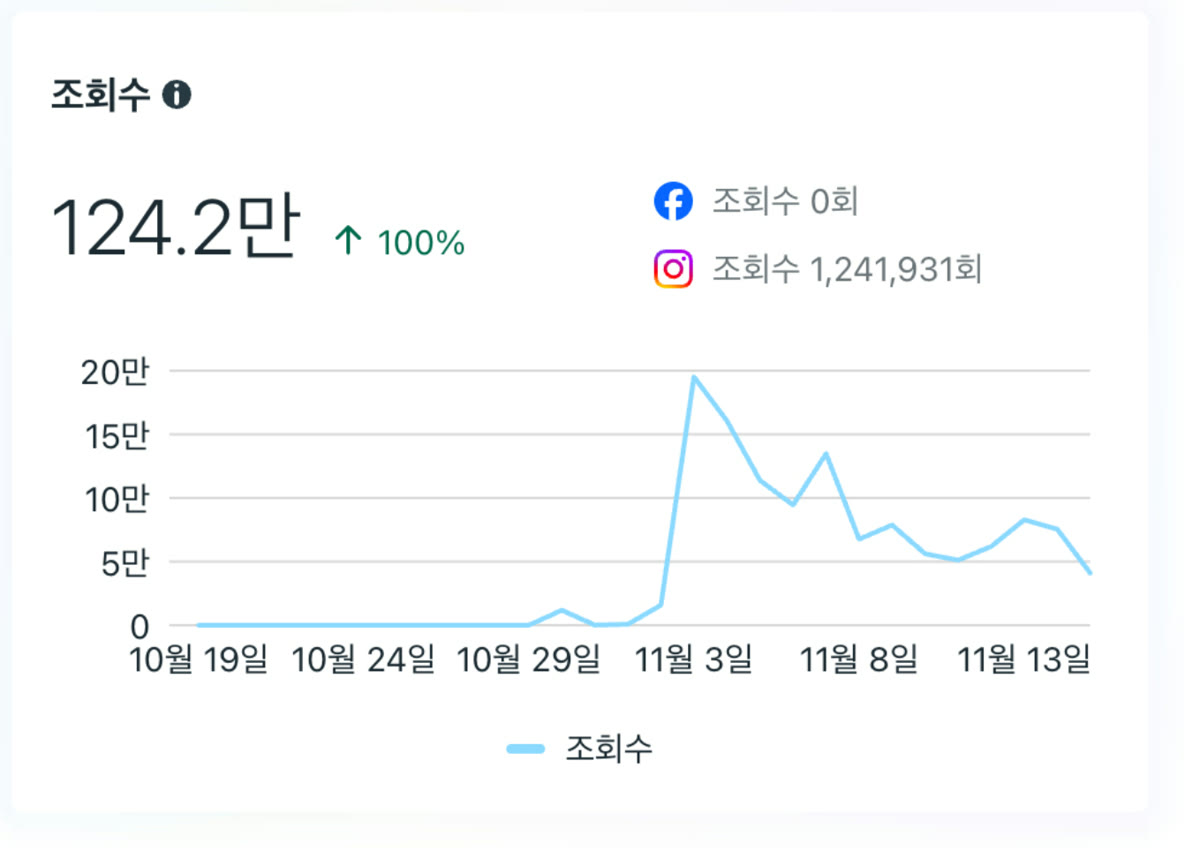
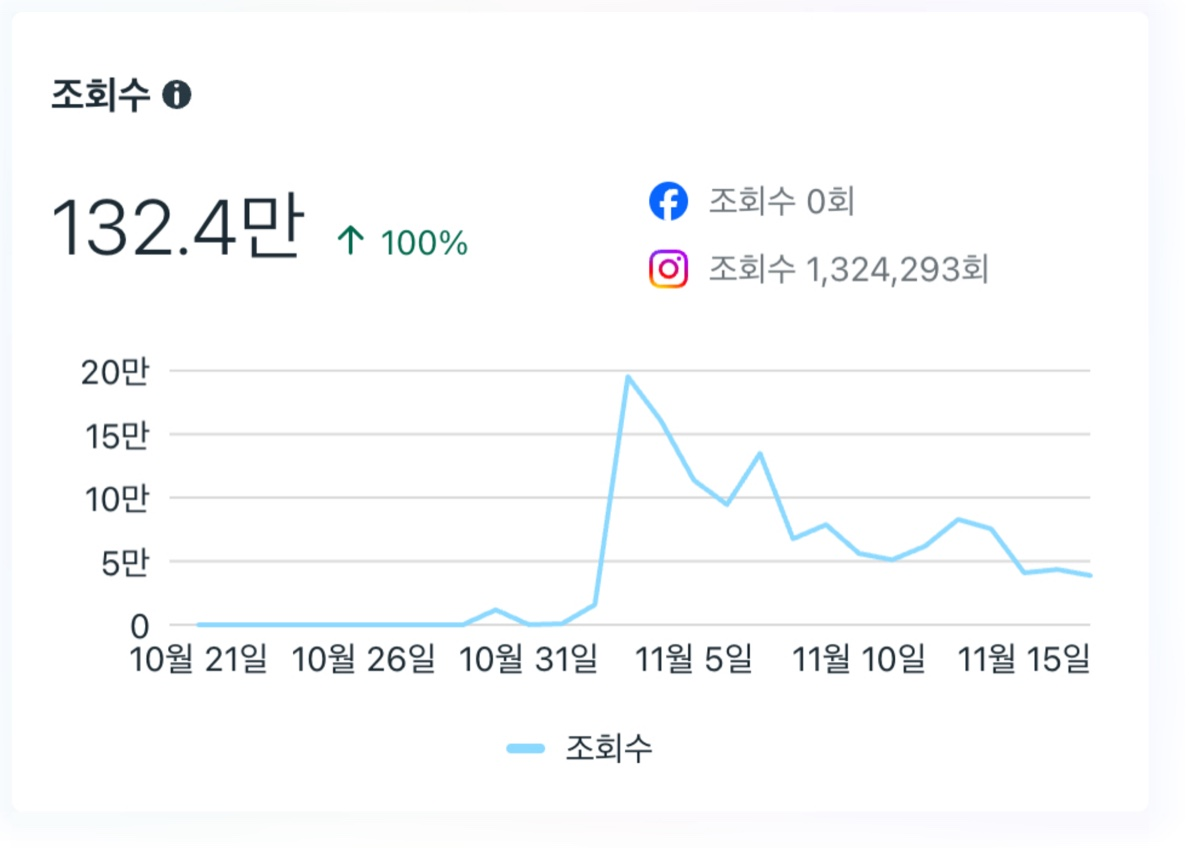
조회수 인사이트 이미지 132.4만으로 교체

diff --git a/index.html b/index.html
@@ -28,7 +28,7 @@
     <div class="bar-row"><span>헨젤과 그레텔</span><div class="track"><i style="--width:100%"></i></div><b>46.8만</b></div><div class="bar-row"><span>라푼젤</span><div class="track"><i style="--width:46.77%"></i></div><b>21.9만</b></div><div class="bar-row"><span>미녀와 야수</span><div class="track"><i style="--width:34.70%"></i></div><b>16.2만</b></div>
     
   </div><div class="audience-panel"><span class="eyebrow">TARGET → RESULT</span><h3>기획 타깃과 실제 시청자의 일치</h3><p>기획 단계에서 핵심 시청자를 <strong>일본의 35–45세 여성</strong>으로 정했습니다. 일본은 무서운 민담과 설화가 많아, 동화의 잔혹한 원작에 대한 관심이 높을 것으로 판단했습니다. 주제와 제목, 표지 문구도 이 시청자에 맞춰 만들었습니다.</p><div class="target"><span>실제 시청자 구성</span><strong>여성 80.3%</strong></div><p>운영 결과 시청자의 80.3%가 여성이었고, <strong>가장 많은 연령대는 35–44세</strong>였습니다. 처음 정한 타깃이 실제 시청자 구성으로 그대로 나타났습니다.</p></div></div>
-  <div class="evidence evidence-open"><div class="proof-grid"><figure><a href="assets/views.jpg" target="_blank" rel="noopener noreferrer"><img src="assets/views.jpg" alt="계정 조회수 인사이트: Instagram 1,241,931회" loading="lazy"></a></figure><figure><a href="assets/audience.jpg" target="_blank" rel="noopener noreferrer"><img src="assets/audience.jpg" alt="시청자 성별 여성 80.3%, 남성 19.7%. 가장 큰 연령 구간은 35~44세" loading="lazy"></a></figure></div></div>
+  <div class="evidence evidence-open"><div class="proof-grid"><figure><a href="assets/views.jpg" target="_blank" rel="noopener noreferrer"><img src="assets/views.jpg" alt="계정 조회수 인사이트: Instagram 1,324,293회" loading="lazy"></a></figure><figure><a href="assets/audience.jpg" target="_blank" rel="noopener noreferrer"><img src="assets/audience.jpg" alt="시청자 성별 여성 80.3%, 남성 19.7%. 가장 큰 연령 구간은 35~44세" loading="lazy"></a></figure></div></div>
 </div>
 </section>
 
